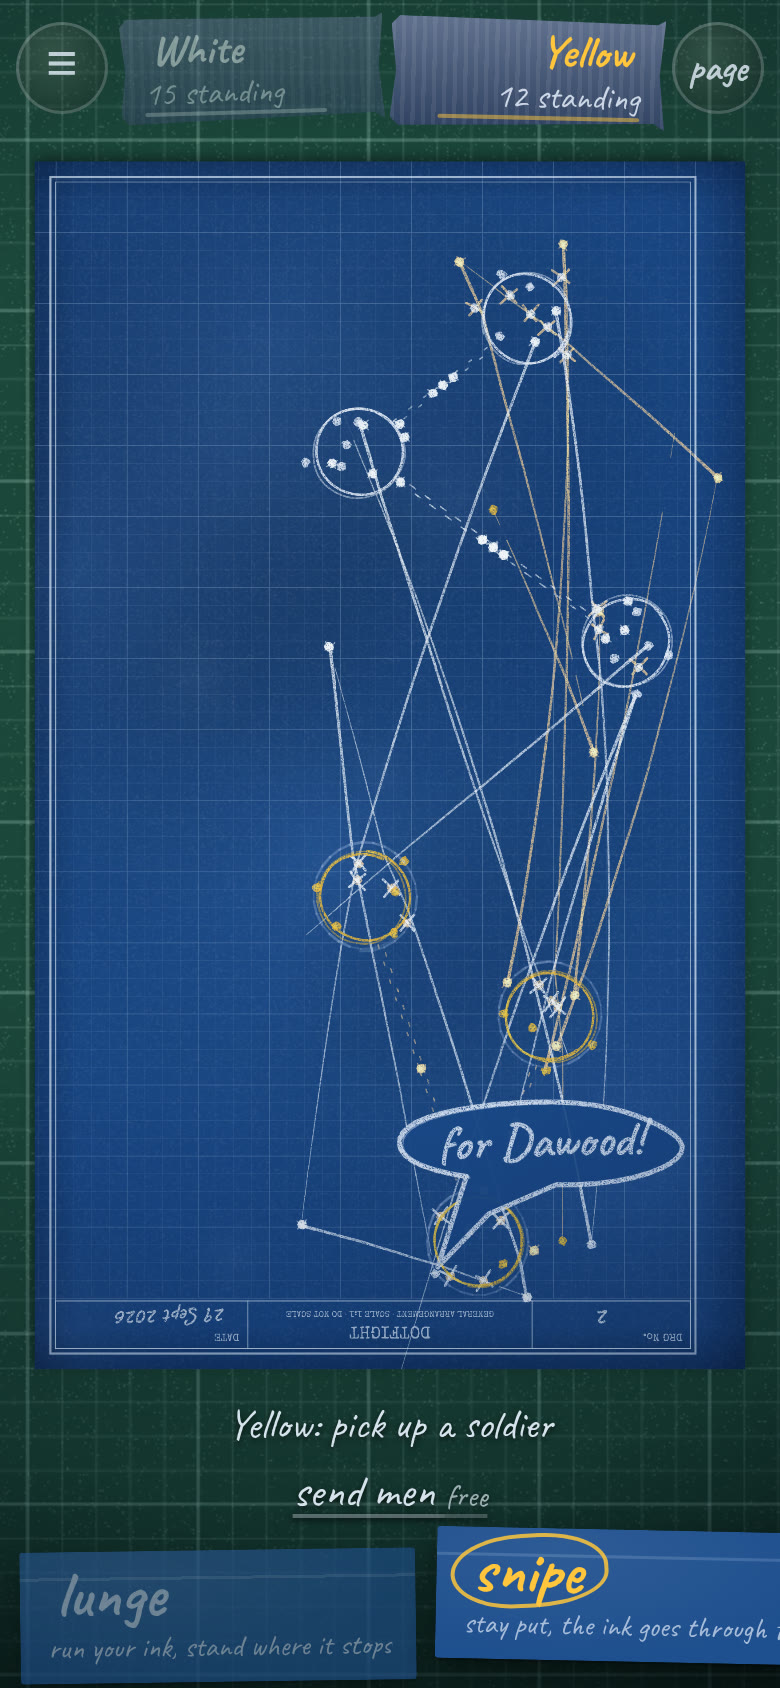
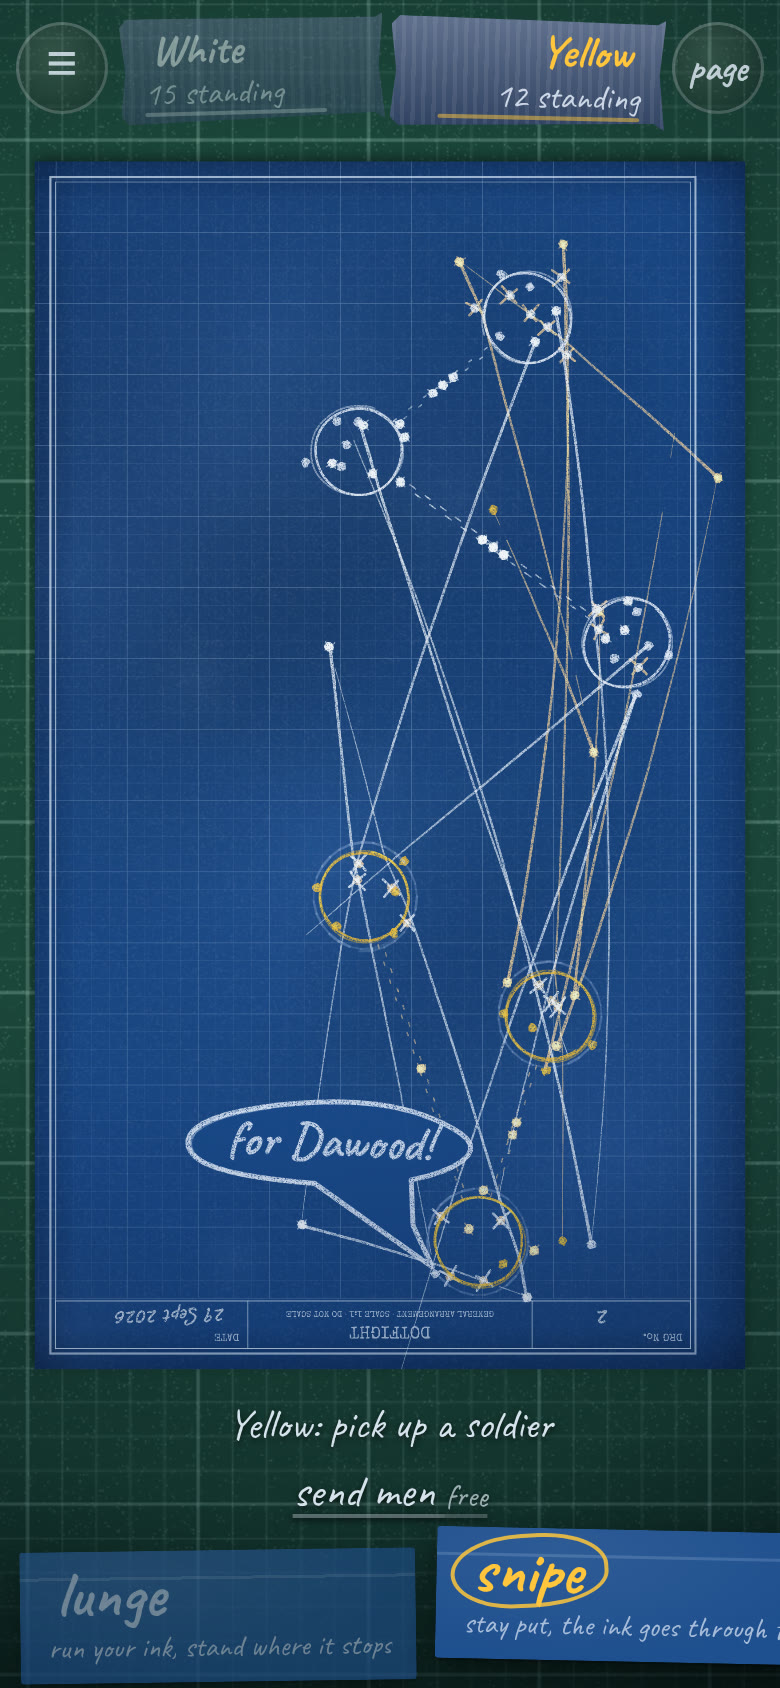
Balloon bounds use screen coords; room games use away() for haptics and idle lines; recaptured
Review findings on c23620f: unproject takes screen points, so the HUD-safe box
was offset by the stage margins; and the new haptic/idle checks used isBot
where main now has away() (bot or remote seat).

diff --git a/src/main.ts b/src/main.ts
@@ -784,9 +784,9 @@ function feelFlick(o: Outcome, f: Flick, dur: number, snags: Snag[], n: number) 
   // under your thumb: your camp cheering your kill; the bot's ink going right past one of yours
   const shooter = s.soldiers[f.soldier].owner;
   const cheer = plan.acts.find((a) => a.r.kind === "cheer");
-  if (cheer && !isBot(shooter)) after(cheer.r.t0 * speed, () => feel("cheer"));
-  const close = plan.cues.find((c) => c.say === "eep" && !isBot(s.soldiers[c.id].owner));
-  if (close && isBot(shooter)) after(close.at * speed, () => feel("flinch"));
+  if (cheer && !away(shooter)) after(cheer.r.t0 * speed, () => feel("cheer"));
+  const close = plan.cues.find((c) => c.say === "eep" && !away(s.soldiers[c.id].owner));
+  if (close && away(shooter)) after(close.at * speed, () => feel("flinch"));
   const phew = plan.cues.find((c) => c.say === "phew");
   if (phew) speak("phew", phew.id, wall + phew.at);
   // a flick is one moment: one voice, now and then two, never the crowd
@@ -2107,7 +2107,7 @@ function frame(now: number) {
   const bb = bubbles.showing(wall), bk = bb ? bubbleAt(bb, wall, reduced)?.key ?? "" : "";
   if (bk !== bubbleKey) { bubbleKey = bk; dirty = true; }
   // now and then, on your go with nothing happening, a stray thought
-  if (screen === "game" && !isBot(s.current) && s.phase === "play" && !aim && !res && !busy && selected === undefined && bubbles.idleDue(wall, s.seed)) {
+  if (screen === "game" && !away(s.current) && s.phase === "play" && !aim && !res && !busy && selected === undefined && bubbles.idleDue(wall, s.seed)) {
     const mine = turn.aliveOf(s, s.current);
     if (mine.length) speak("idle", mine[Math.floor(seeded(s.seed, s.turn, Math.floor(wall / 1000)) * mine.length)].id);
   }

diff --git a/src/scene.ts b/src/scene.ts
@@ -447,8 +447,8 @@ function balloonBounds(f: Frame): { x0: number; y0: number; x1: number; y1: numb
   const B = { x0: 12, y0: 12, x1: RULES.pageW - 12, y1: RULES.pageH - 12 };
   const v = f.view, hud = f.hud;
   if (!hud) return B;
-  // the part of the screen clear of the HUD, in page units (canvas coords: the screen sits (ox, oy) in)
-  const l = v.ox + HUD_INSET, r = v.ox + f.sw - HUD_INSET, t = v.oy + hud.top + HUD_INSET, bt = v.oy + hud.h - hud.bottom - HUD_INSET;
+  // the part of the screen clear of the HUD, in page units
+  const l = HUD_INSET, r = f.sw - HUD_INSET, t = hud.top + HUD_INSET, bt = hud.h - hud.bottom - HUD_INSET;
   const pts = [[l, t], [r, t], [l, bt], [r, bt]].map(([x, y]) => unproject(v, x, y));
   if (pts.some((p) => !p) || bt - t < 60) return B;
   const xs = pts.map((p) => p!.x), ys = pts.map((p) => p!.y);
